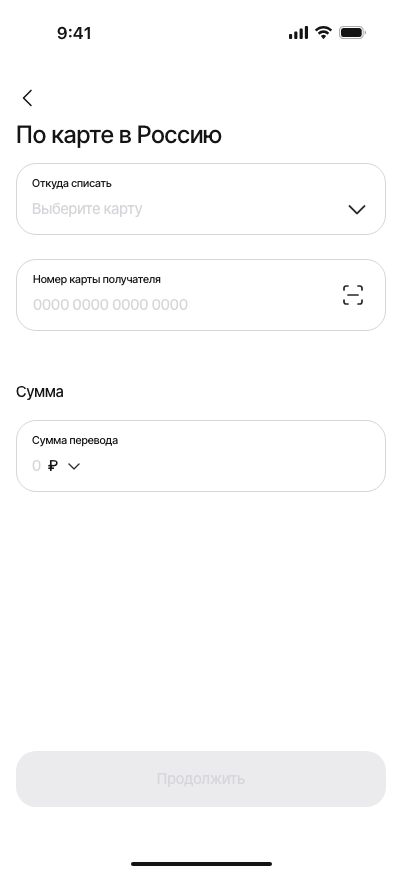
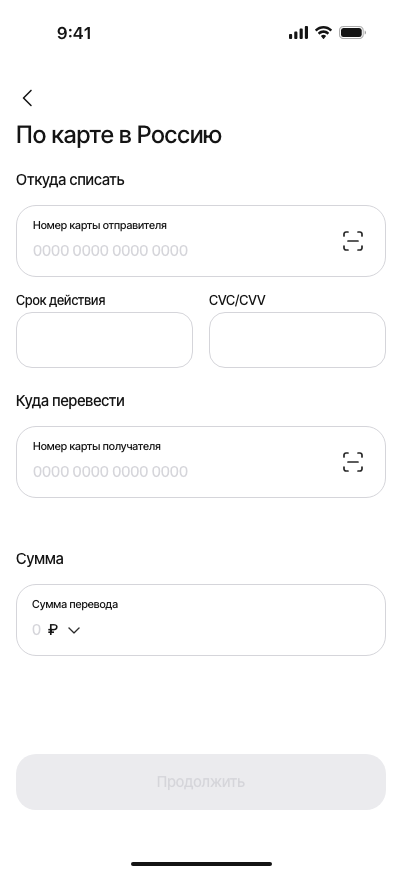
Update guest transfer with inline sender card fields from Figma

diff --git a/src/authorized-transfer.js b/src/authorized-transfer.js
@@ -34,6 +34,8 @@ export function createAuthorizedTransfer({ cards, card, recipient, transferKind,
   screen.className = 'authorized-transfer card-transfer';
   const lockedGuestSource = guest && !!sourceNumber;
   const guestSourceNumbers = new Map();
+  const inlineGuestSource = guest && !lockedGuestSource;
+  const guestInlineId = inlineGuestSource ? 'guest-'+crypto.randomUUID() : null;
   let source = guest ? cards[0] : repeatAmount != null ? cards.find(c => c.id === card?.id) || null : null;
   let amountCurrency=defaultAmountCurrency(source);
   let savedRecipient = recipient || null;
@@ -95,7 +97,7 @@ export function createAuthorizedTransfer({ cards, card, recipient, transferKind,
     addInput.value='';addDetails.clearDemo();addError.textContent='';addDialog.close();update();
   };
   const form = screen.querySelector('form');
-  const input = screen.querySelector('input');
+  const input = screen.querySelector('#destination-number');
   const trigger = screen.querySelector('.source-trigger');
   const options = screen.querySelector('.source-options');
   const next = screen.querySelector('.authorized-continue');
@@ -103,6 +105,27 @@ export function createAuthorizedTransfer({ cards, card, recipient, transferKind,
   const sourceDetails=createDemoCardDetails(()=>update());
   sourceDetails.hidden=true;
   screen.querySelector('.source-section').append(sourceDetails);
+  if(inlineGuestSource) {
+    screen.classList.add('guest-inline-source');
+    screen.querySelector('.source-dropdown').hidden=true;
+    const sourceSection=screen.querySelector('.source-section');
+    sourceSection.insertAdjacentHTML('afterbegin', '<h2>Откуда списать</h2><div class="destination-field recipient-card-field guest-sender-field"><label for="guest-source">Номер карты отправителя</label><input id="guest-source" inputmode="numeric" autocomplete="off" placeholder="0000 0000 0000 0000" aria-describedby="guest-source-error"><button type="button" class="scan-card guest-source-scan" aria-label="Сканировать карту отправителя"><img src="./assets/images/recipient-scan.svg" alt=""></button></div><p id="guest-source-error" class="field-error" role="alert"></p>');
+    const sender=sourceSection.querySelector('#guest-source');
+    const senderError=sourceSection.querySelector('#guest-source-error');
+    sourceDetails.querySelectorAll('input').forEach(el=>el.placeholder='');
+    sender.oninput=()=>{
+      sender.value=sender.value.replace(/\D/g,'').slice(0,19).replace(/(.{4})/g,'$1 ').trim();
+      sourceNumber=sender.value;
+      const available=validCard(sender.value)&&demoCardAvailability(sender.value).available;
+      source=available?{id:guestInlineId,name:'Карта отправителя',last4:sender.value.replace(/\D/g,'').slice(-4),balance:null,currency:'RUB',external:true}:null;
+      senderError.textContent=validCard(sender.value)&&!available?demoCardAvailability(sender.value).message:'';
+      sender.setAttribute('aria-invalid',String(!!senderError.textContent));
+      detectBank();update();
+    };
+    sender.onblur=()=>{if(sender.value&&!validCard(sender.value)){senderError.textContent='Неверный номер карты';sender.setAttribute('aria-invalid','true');}};
+    screen.querySelector('.destination-section').insertAdjacentHTML('afterbegin','<h2>Куда перевести</h2>');
+  }
+
   const bankStatus=screen.querySelector('.recipient-bank');
   const availabilityStatus=screen.querySelector('.card-availability');
   function detectBank() {
@@ -209,7 +232,7 @@ export function createAuthorizedTransfer({ cards, card, recipient, transferKind,
     demoData.recipients.push(r);savedRecipient=r;saveDemoTransfers();recipientSheet.close();update();
   };
   const dialog=screen.querySelector('.scan-info');
-  screen.querySelector('.scan-card').onclick=()=>dialog.showModal();
+  screen.querySelectorAll('.scan-card').forEach(button=>button.onclick=()=>dialog.showModal());
   dialog.querySelector('button').onclick=()=>dialog.close();
   screen.querySelector('.authorized-back').onclick=onBack;
   const amountInput=screen.querySelector('#transfer-amount');
@@ -244,7 +267,7 @@ export function createAuthorizedTransfer({ cards, card, recipient, transferKind,
     pendingTopup=null;topup.close();updateQuote();
   };
   function updateQuote() {
-    sourceDetails.hidden=!source?.external || guest;
+    sourceDetails.hidden=inlineGuestSource ? false : !source?.external || guest;
     trigger.classList.toggle('has-source',!!source);
     if(!lockedGuestSource)screen.querySelector('.source-value').textContent=source?'•• '+source.last4+'   '+sourceName(source):'Выберите карту';
     options.querySelectorAll('[data-source]').forEach(button=>{
@@ -298,7 +321,7 @@ export function createAuthorizedTransfer({ cards, card, recipient, transferKind,
     next.setAttribute('aria-label',calculating?'Рассчитываем перевод':'Продолжить');
     next.querySelector('.continue-label').hidden=calculating;
     next.querySelector('.continue-spinner').hidden=!calculating;
-    next.disabled=!ready()||!currentQuote||currentQuote.insufficient||(!guest&&source?.external&&!sourceDetails.demoComplete());
+    next.disabled=(inlineGuestSource&&!sourceDetails.demoComplete())||!ready()||!currentQuote||currentQuote.insufficient||(!guest&&source?.external&&!sourceDetails.demoComplete());
   }
   amountInput.oninput=updateQuote;
   amountInput.onblur=()=>{

diff --git a/src/styles.css b/src/styles.css
@@ -1221,3 +1221,18 @@ body:has(.card-transfer) .home-indicator { height:calc(32px + env(safe-area-inse
 
 /* Guest entry uses the same Figma card-transfer fields and spacing. */
 .guest-transfer.card-transfer .scan-card { top:50%; }
+
+/* Guest transfer from the welcome secondary action — Figma 138:5534. */
+.guest-inline-source .source-section { padding-top:8px; }
+.guest-inline-source .source-section>h2,
+.guest-inline-source .destination-section>h2 { font:500 15px/18px 'Inter Tight',sans-serif; margin:0 0 16px; }
+.guest-inline-source .card-details-row { margin-top:16px; }
+.guest-inline-source .card-details-row label { font:500 13px/15px 'Inter Tight',sans-serif; }
+.guest-inline-source .card-details-row input { margin-top:4px; border:1.8px solid #d5d5da; }
+.guest-inline-source .destination-section { margin-top:24px; }
+.guest-inline-source .inline-amount { margin-top:48px; }
+.guest-inline-source .inline-amount h2 { margin-bottom:12.5px; }
+.guest-inline-source>form { min-height:calc(var(--transfer-viewport-height,100dvh) - 227px - env(safe-area-inset-top) - env(safe-area-inset-bottom)); }
+.guest-inline-source #guest-source-error:empty { display:none; }
+
+.guest-inline-source .destination-field { border-width:1.5px; }

diff --git a/README.md b/README.md
@@ -36,7 +36,7 @@ npm start
 
 Полные номера карт не сохраняются в браузерном хранилище. Для определения банка внешний сервис получает только первые восемь цифр. При добавлении карты баланс остаётся неизвестным.
 
-Гостевой перевод доступен со стартового экрана и по ссылке ?screen=guest. Экран соответствует Figma 138:5534: выбор/добавление карты отправителя, номер получателя и сумма с валютой находятся на одном экране. Без клавиатуры CTA находится внизу; при вводе используется системная клавиатура. Сканирование показывает пояснение о ручном вводе. Расчёт комиссии, подтверждение и демонстрационное завершение используют общую форму перевода.
+Гостевой перевод доступен со стартового экрана и по ссылке ?screen=guest. Экран соответствует Figma 138:5534: номер карты отправителя, демонстрационные срок действия и CVC/CVV, номер получателя и сумма с валютой находятся на одном экране. Без клавиатуры CTA находится внизу; при вводе используется системная клавиатура. Сканирование показывает пояснение о ручном вводе. Расчёт комиссии, подтверждение и демонстрационное завершение используют общую форму перевода.
 
 ## Структура
 
